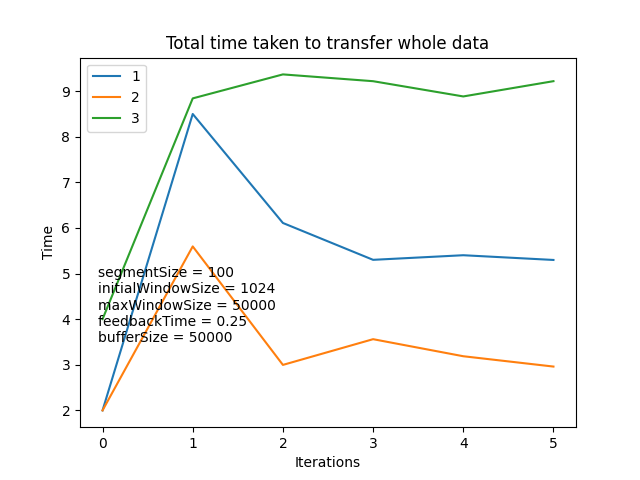
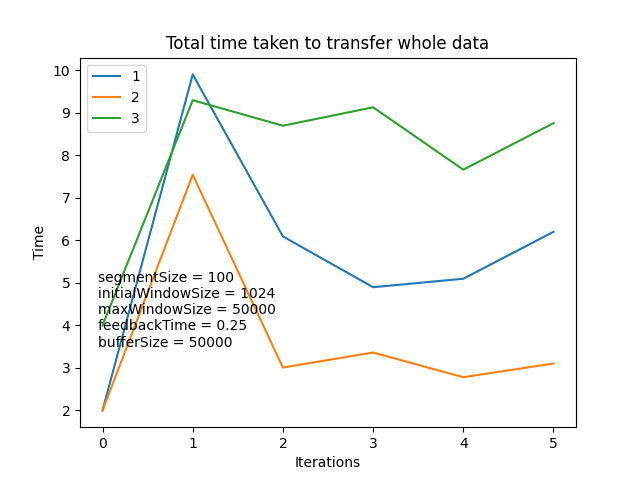
Added to run in mininet

diff --git a/mininetSocketTest.py b/mininetSocketTest.py
@@ -50,11 +50,11 @@ def perfTest( lossy=True ):
     info( "Dumping host connections\n" )    
     # dumpNodeConnections(net.hosts)
     info( "Testing bandwidth between h1 and h4\n" )
-    # net["h2"].cmd('python3 RUDPServer.py -i "10.0.0.2" -p "101" -f "recv_10000.b" --fT "0.25" --priority "1"')
-    # net["h2"].cmd('python3 RUDPServer.py -i "10.0.0.2" -p "102" -f "recv_10000.b" --fT "0.25" --priority "1"')
-    # net["h2"].cmd('python3 RUDPServer.py -i "10.0.0.2" -p "103" -f "recv_10000.b" --fT "0.25" --priority "1"')
-    # net["h1"].cmd('python3 RUDP_testing_client.py -i "10.0.0.2"  -p "100" -s "1000" \
-    #     -f "send_10000.b" --icw "1024" --mcw "50000" --fT "0.25"')
+    net["h2"].cmd('python3 RUDPServer.py -i "10.0.0.2" -p "101" -f "recv_10000.b" --fT "0.25" --priority "1"&')
+    net["h2"].cmd('python3 RUDPServer.py -i "10.0.0.2" -p "102" -f "recv_10000.b" --fT "0.25" --priority "2"&')
+    net["h2"].cmd('python3 RUDPServer.py -i "10.0.0.2" -p "103" -f "recv_10000.b" --fT "0.25" --priority "3"&')
+    net["h1"].cmd('python3 RUDP_testing_client.py -i "10.0.0.2" -p "100" -s "1000" \
+        -f "send_10000.b" -b 50000 --icw "1024" --mcw "50000" --fT "0.25"&')
     # h1, h4 = net.getNodeByName('h1', 'h4')
     # net.iperf( ( h1, h4 ), l4Type='UDP' )
     CLI( net)

diff --git a/RUDP_testing_client.py b/RUDP_testing_client.py
@@ -84,9 +84,9 @@ textstr = '\n'.join((
 
 # plt.figtext(-0.05, 3.5, s=textstr, horizontalalignment = "center")
 plt.text(-0.05, 3.5, textstr)
-    
-file_name = "./client_" +  options.dstIP + "_" + str(options.port)\
+
+file_name = "/home/mininet/FCN_project/graphs/client_" +  options.dstIP + "_" + str(options.port)\
      + "_" + str(options.initialWindowSize) + "_" + str(options.feedbackTime) +\
-           "_" + str(options.maxWindowSize) + "_" + "__" + ".png"
+           "_" + str(options.maxWindowSize) + "_" + str(options.bufferSize) + "__" + ".png"
 plt.savefig(file_name)
 plt.show()
